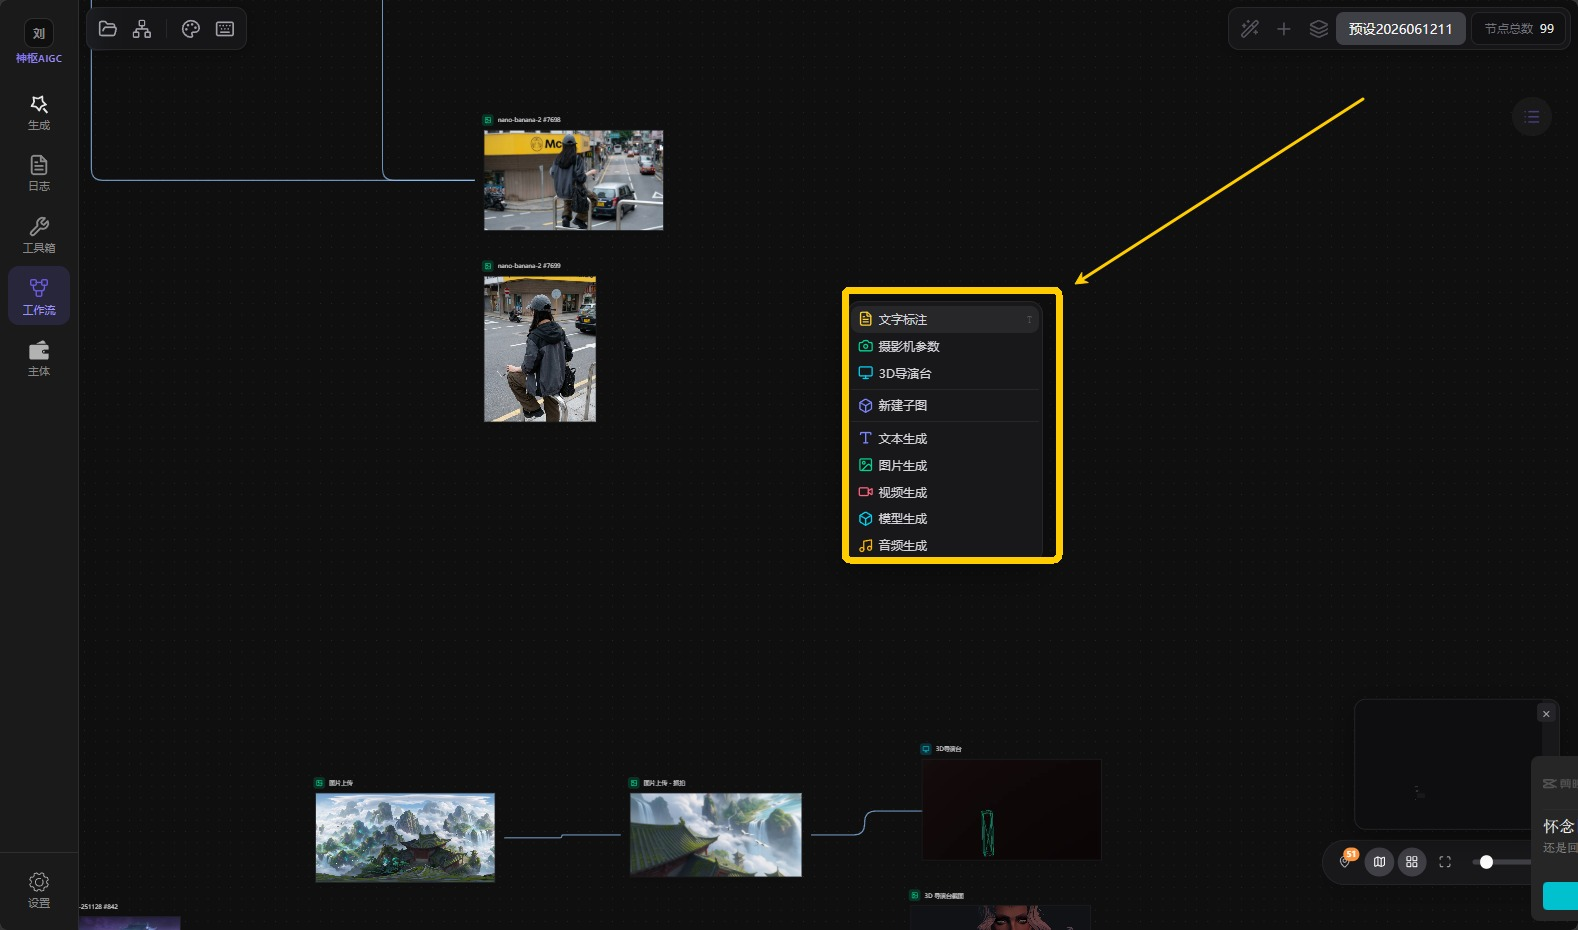
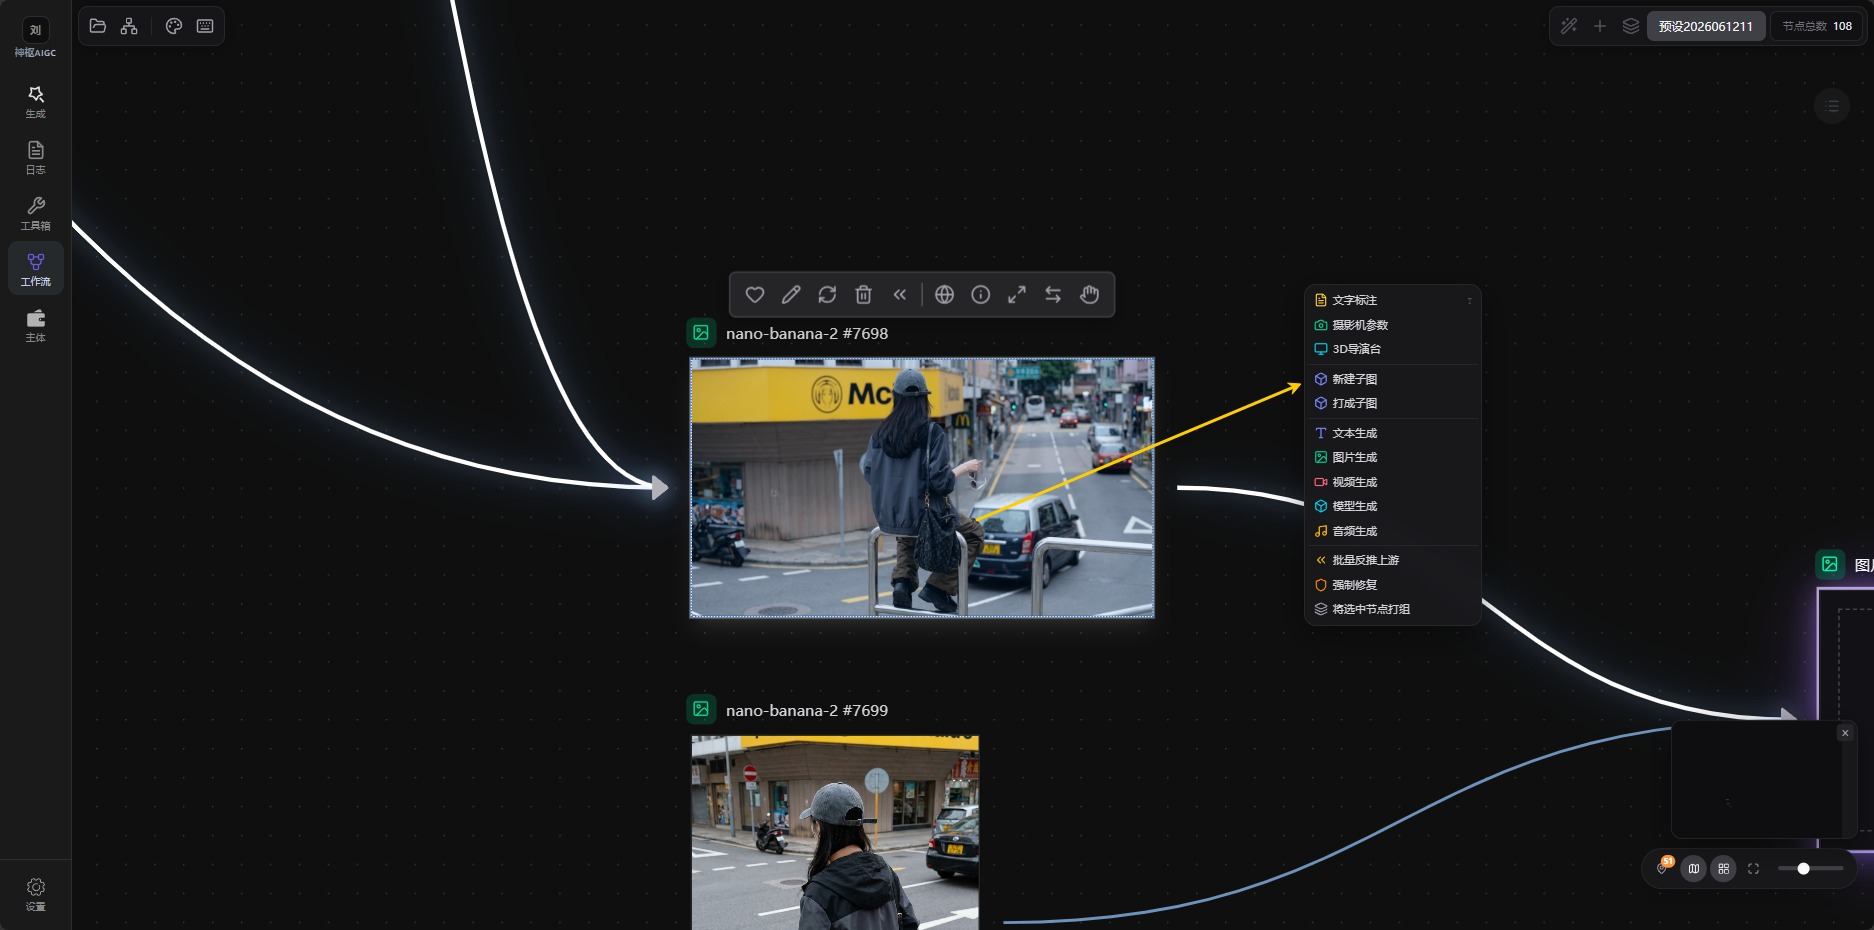
fix: node-editor cover + maya-tool video cover

diff --git a/src/data/works.ts b/src/data/works.ts
@@ -95,7 +95,7 @@ export const works: Work[] = [
     title: 'Maya 项目管理工具',
     category: '工具开发',
     description: '基于 PyQt 的 Maya 项目管理工具，提升制作管线效率与资产管理规范性。',
-    thumbnail: '',
+    thumbnail: '/works/tools/maya-project-tool.jpg',
     tags: ['Python', 'PyQt', 'Maya', 'TD'],
     videoUrl: '/works/videos/maya-tool.mp4'
   },
